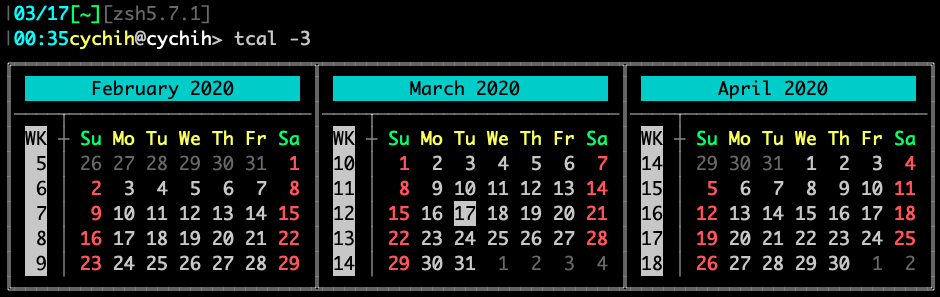
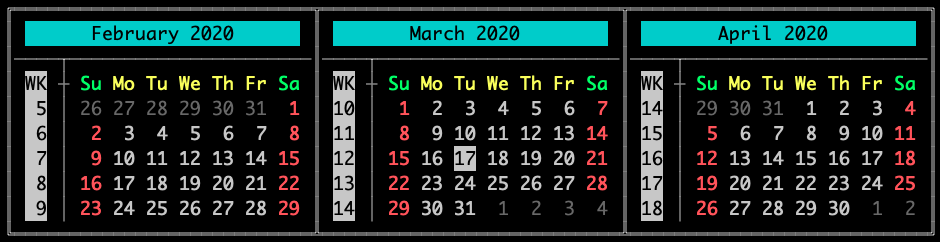
Add gallery

diff --git a/README.rst b/README.rst
@@ -189,6 +189,30 @@ looks like this:
 ..  image:: gallery/my-setting.png
 
 
+Gallery
+-------------------------------------------------------------------------------
+
+Classical ASCII border:
+
+..  image:: gallery/border=ascii.png
+
+
+Bold border:
+
+..  image:: gallery/border=bold.png
+
+
+Single-lined border, with ``noweld`` option:
+
+..  image:: gallery/border=single noweld.png
+
+
+Doubled-lined border:
+
+..  image:: gallery/border=double.png
+
+
+
 Test
 -------------------------------------------------------------------------------
 ::
